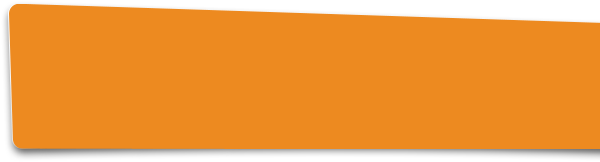
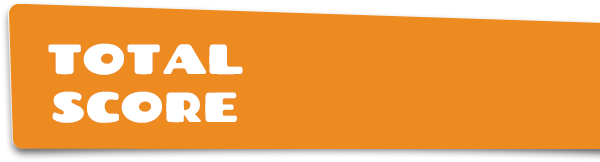
ttapp menu changes

Changed region(s): [[0.09, 0.5556, 0.42, 0.7716], [0.06, 0.2469, 0.42, 0.463]]

diff --git a/belugapad/TTApp-sources/TimesTableMenu.m b/belugapad/TTApp-sources/TimesTableMenu.m
@@ -156,9 +156,19 @@ const float outerButtonPopInDelay=0.05f;
     [renderLayer addChild:background];
     
     totalTab=[CCSprite spriteWithFile:BUNDLE_FULL_PATH(@"/images/timestables/menu/total_score_tab.png")];
-//    [totalTab setAnchorPoint:ccp(1,0.5)];
-    [totalTab setPosition:ccp(lx-(totalTab.contentSize.width/2),ly-50)];
+    [totalTab setAnchorPoint:ccp(1,0.5)];
+    [totalTab setPosition:ccp(lx,ly-50)];
     [renderLayer addChild:totalTab];
+
+    backBtn=[CCSprite spriteWithFile:BUNDLE_FULL_PATH(@"/images/timestables/menu/back_button.png")];
+    [backBtn setAnchorPoint:ccp(0,0.5)];
+    [backBtn setPosition:ccp(0-backBtn.contentSize.width,ly-50)];
+    [renderLayer addChild:backBtn];
+    
+    playAgainBtn=[CCSprite spriteWithFile:BUNDLE_FULL_PATH(@"/images/timestables/menu/play_again_note.png")];
+    [playAgainBtn setAnchorPoint:ccp(0,0.5)];
+    [playAgainBtn setPosition:ccp(lx,ly-50)];
+    [renderLayer addChild:playAgainBtn];
     
     infoBtn=[CCSprite spriteWithFile:BUNDLE_FULL_PATH(@"/images/timestables/menu/info_button.png")];
     [infoBtn setPosition:ccp(30,30)];
@@ -270,9 +280,11 @@ const float outerButtonPopInDelay=0.05f;
         }
     }
     
-    totalPercentage=[CCLabelTTF labelWithString:[NSString stringWithFormat:@"%d%%",totalPerc/12] fontName:CHANGO fontSize:56.0f];
-
-    [totalPercentage setPosition:totalTab.position];
+    totalPerc=1200;
+    
+    totalPercentage=[CCLabelTTF labelWithString:[NSString stringWithFormat:@"%d%%",totalPerc/12] fontName:CHANGO fontSize:42.0f];
+//    [totalPercentage setAnchorPoint:ccp(0,0.5)];
+    [totalPercentage setPosition:ccp(totalTab.position.x-85,totalTab.position.y)];
     [renderLayer addChild:totalPercentage];
     
     if(ac.NumberShowing){
@@ -293,16 +305,23 @@ const float outerButtonPopInDelay=0.05f;
 -(void)slideScoreTab:(int)direction
 {
     if(direction==1){
-        [totalTab runAction:[CCEaseBounceIn actionWithAction:[CCMoveTo actionWithDuration:0.3f position:ccp(totalTab.position.x+250,totalTab.position.y)]]];
-        [totalPercentage runAction:[CCEaseBounceIn actionWithAction:[CCMoveTo actionWithDuration:0.3f position:ccp(totalPercentage.position.x+250,totalPercentage.position.y)]]];
+        [totalTab runAction:[CCEaseBounceOut actionWithAction:[CCMoveTo actionWithDuration:0.3f position:ccp(totalTab.position.x+totalTab.contentSize.width,totalTab.position.y)]]];
+        [totalPercentage runAction:[CCEaseBounceOut actionWithAction:[CCMoveTo actionWithDuration:0.3f position:ccp(totalPercentage.position.x+totalTab.contentSize.width,totalPercentage.position.y)]]];
+        [backBtn runAction:[CCEaseBounceOut actionWithAction:[CCMoveTo actionWithDuration:0.3f position:ccp(backBtn.position.x+backBtn.contentSize.width,backBtn.position.y)]]];
+        [playAgainBtn runAction:[CCSequence actionOne:[CCDelayTime actionWithDuration:0.3f] two:[CCEaseBounceOut actionWithAction:[CCMoveTo actionWithDuration:0.3f position:ccp(playAgainBtn.position.x-playAgainBtn.contentSize.width,playAgainBtn.position.y)]]]];
+
     }
     else if(direction==-1){
-        [totalTab runAction:[CCEaseBounceIn actionWithAction:[CCMoveTo actionWithDuration:0.3f position:ccp(totalTab.position.x-250,totalTab.position.y)]]];
-        [totalPercentage runAction:[CCEaseBounceIn actionWithAction:[CCMoveTo actionWithDuration:0.3f position:ccp(totalPercentage.position.x-250,totalPercentage.position.y)]]];
+        [totalTab runAction:[CCSequence actionOne:[CCDelayTime actionWithDuration:0.3f] two:[CCEaseBounceOut actionWithAction:[CCMoveTo actionWithDuration:0.3f position:ccp(totalTab.position.x-totalTab.contentSize.width,totalTab.position.y)]]]];
+        [totalPercentage runAction:[CCSequence actionOne:[CCDelayTime actionWithDuration:0.3f] two:[CCEaseBounceOut actionWithAction:[CCMoveTo actionWithDuration:0.3f position:ccp(totalPercentage.position.x-totalTab.contentSize.width,totalPercentage.position.y)]]]];
+        [backBtn runAction:[CCEaseBounceOut actionWithAction:[CCMoveTo actionWithDuration:0.3f position:ccp(backBtn.position.x-backBtn.contentSize.width,backBtn.position.y)]]];
+        [playAgainBtn runAction:[CCEaseBounceOut actionWithAction:[CCMoveTo actionWithDuration:0.3f position:ccp(playAgainBtn.position.x+playAgainBtn.contentSize.width,playAgainBtn.position.y)]]];
     }
     else if(direction==2){
-        [totalTab setPosition:ccp(totalTab.position.x+250,totalTab.position.y)];
-        [totalPercentage setPosition:ccp(totalPercentage.position.x+250,totalPercentage.position.y)];
+        [totalTab setPosition:ccp(totalTab.position.x+totalTab.contentSize.width,totalTab.position.y)];
+        [totalPercentage setPosition:ccp(totalPercentage.position.x+totalTab.contentSize.width,totalPercentage.position.y)];
+        [backBtn setPosition:ccp(backBtn.position.x+backBtn.contentSize.width,backBtn.position.y)];
+        [playAgainBtn setPosition:ccp(playAgainBtn.position.x-playAgainBtn.contentSize.width,playAgainBtn.position.y)];
     }
 }
 

diff --git a/belugapad/TTApp-sources/TimesTableMenu.h b/belugapad/TTApp-sources/TimesTableMenu.h
@@ -30,6 +30,8 @@
     CCSprite *totalTab;
     CCSprite *infoBtn;
     CCSprite *infoPnl;
+    CCSprite *backBtn;
+    CCSprite *playAgainBtn;
     int currentSelectionIndex;
     
     NSMutableArray *currentSelectionButtons;
